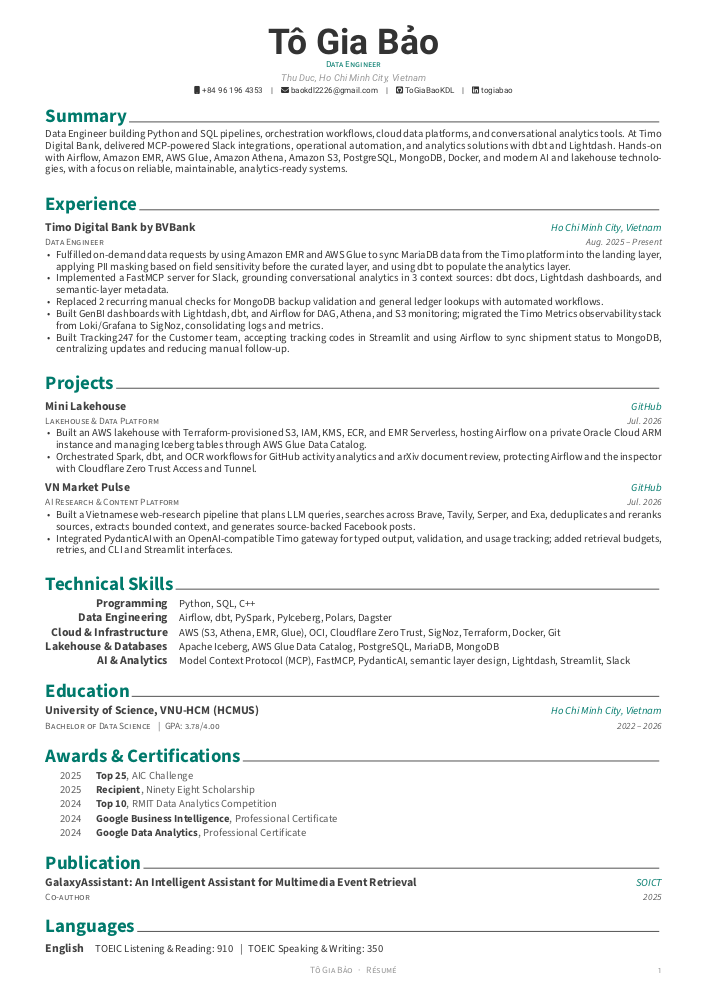
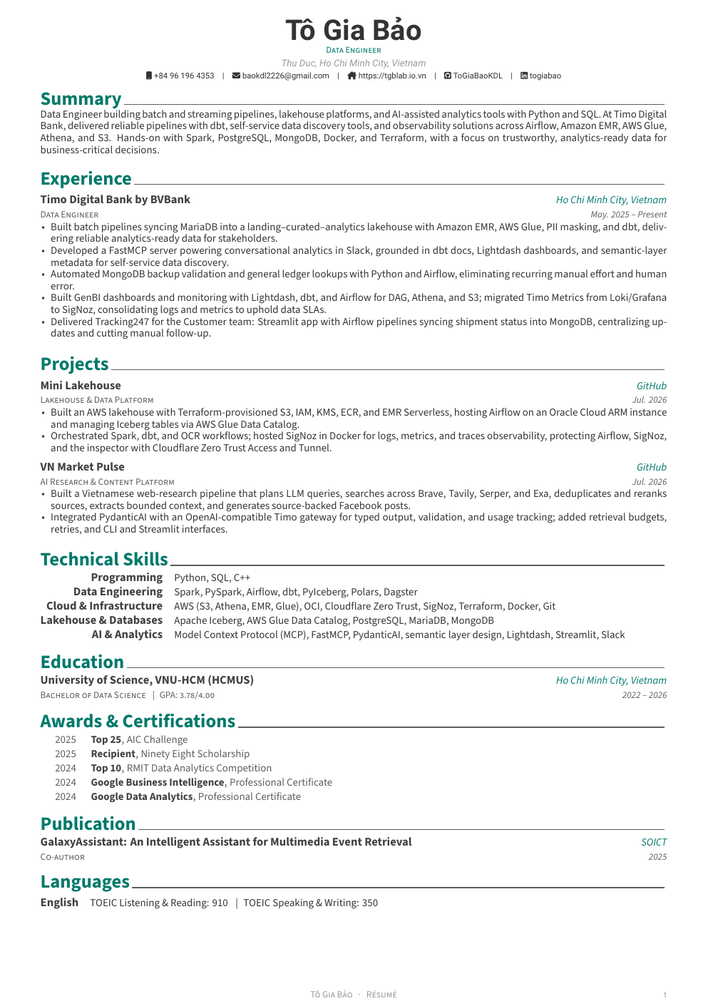
chore: sync resume and experience with the updated CV

Changed region(s): [[0.0621, 0.0, 0.9633, 1.0], [0.8701, 0.837, 0.9322, 0.899]]

diff --git a/src/data/experience.ts b/src/data/experience.ts
@@ -5,15 +5,16 @@ export const experiences = [
     company: site.employer,
     role: site.role,
     location: "Ho Chi Minh City, Vietnam",
-    startDate: "2025-08",
-    startLabel: "Aug 2025",
+    startDate: "2025-05",
+    startLabel: "May 2025",
     summary:
-      "Building governed data workflows, analytics systems and internal tools across the platform and operations stack.",
+      "Building batch pipelines, lakehouse analytics and AI-assisted internal tools across the platform and operations stack.",
     highlights: [
-      "Built ingestion workflows with Amazon EMR and AWS Glue, masking sensitive fields before curated data and using dbt for analytics-ready models.",
-      "Delivered an MCP-powered Slack analytics interface grounded in dbt documentation, Lightdash dashboards and semantic-layer metadata.",
-      "Automated recurring MongoDB backup validation and general-ledger lookup workflows, replacing two manual operational checks.",
-      "Built monitoring for Airflow, Athena and S3, and migrated the observability stack from Loki and Grafana to SigNoz.",
+      "Built batch pipelines syncing MariaDB into a landing–curated–analytics lakehouse with Amazon EMR and AWS Glue, masking PII before curated data and using dbt for analytics-ready models.",
+      "Built a FastMCP server powering conversational analytics in Slack, grounded in dbt docs, Lightdash dashboards and semantic-layer metadata for self-service discovery.",
+      "Automated MongoDB backup validation and general-ledger lookups with Python and Airflow, eliminating recurring manual effort.",
+      "Built GenBI dashboards and monitoring for Airflow, Athena and S3 with Lightdash and dbt, and migrated Timo Metrics from Loki and Grafana to SigNoz.",
+      "Delivered Tracking247 for the Customer team: a Streamlit app with Airflow pipelines syncing shipment status into MongoDB, centralising updates and cutting manual follow-up.",
     ],
   },
 ] as const;
